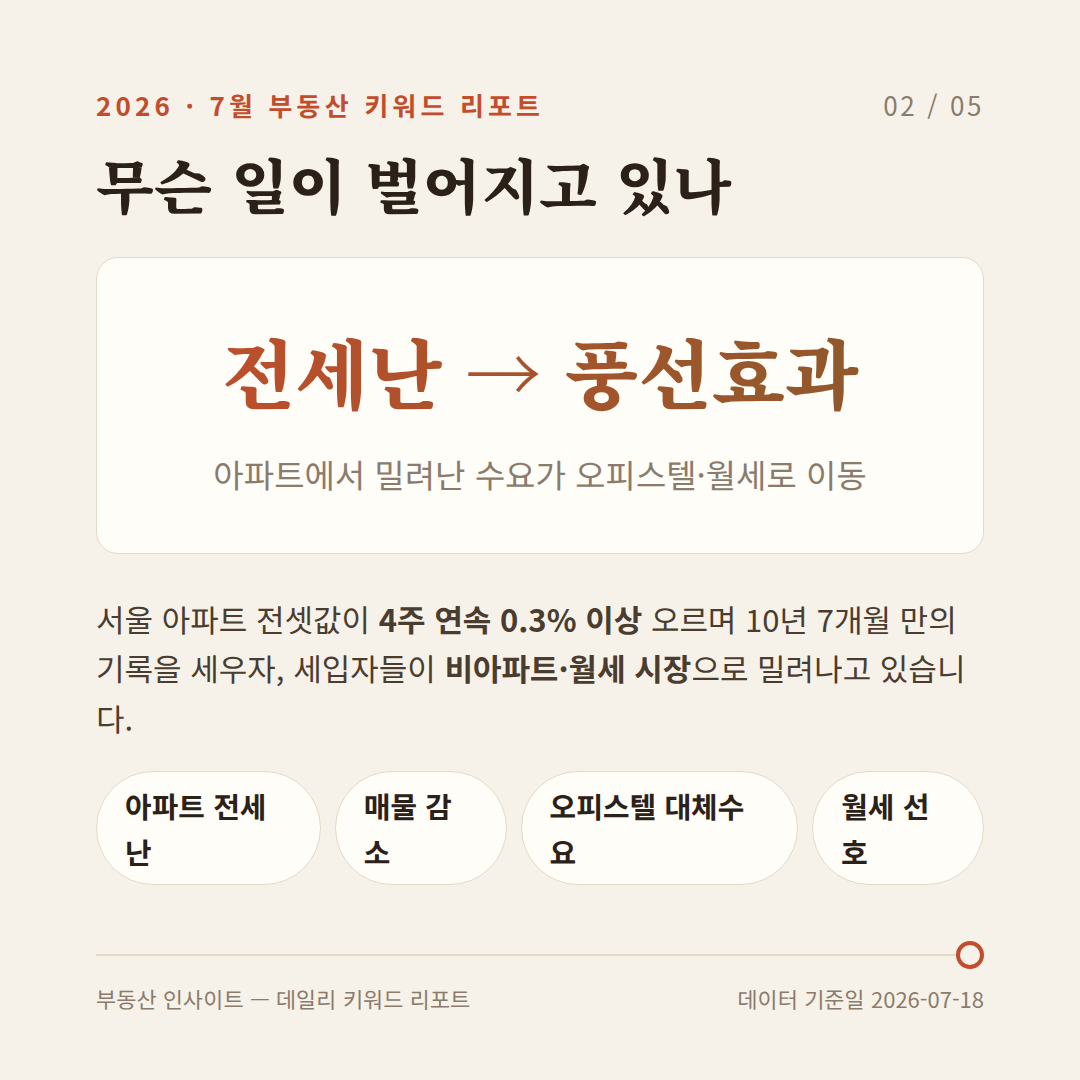
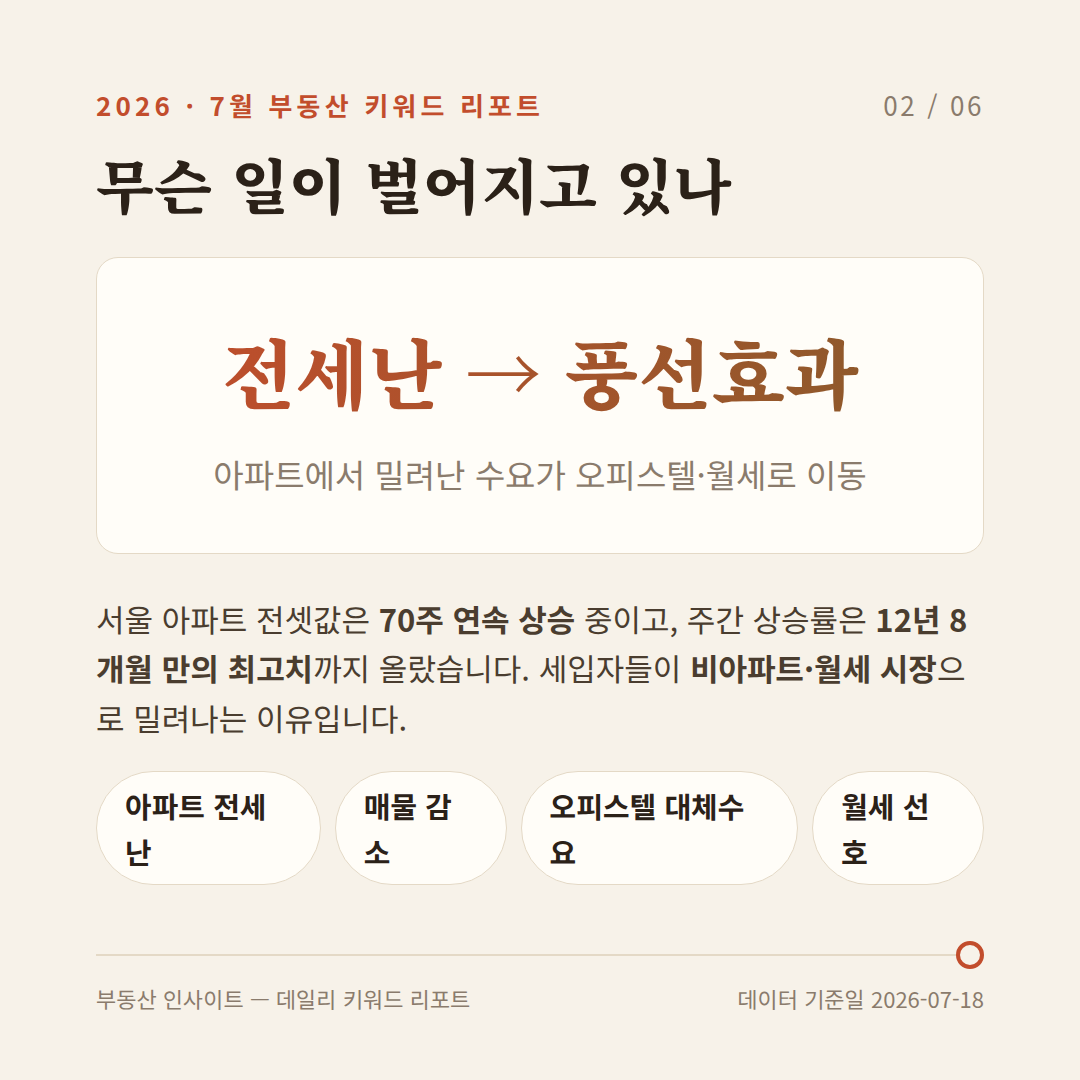
Densify data visualization in report #2 and set viz standards
- Replace headline-pair charts with denser panels: weekly jeonse
  time-series column chart (5 weeks, peak annotation, 70-week badge),
  officetel Q2 triple metrics with Q1 comparison, one-year triple
  surge bars, and the renewal case with stat
- Rebuild card news as 6-card graph-first sets in all three themes
- Add CLAUDE.md documenting the daily report workflow and the
  visualization density standards (4+ point series, multi-metric,
  sourced figures only)

Claude-Session: https://claude.ai/code/session_014FPhCKpii9mVmDWMzN6gma

Changed region(s): [[0.0917, 0.55, 0.9167, 0.7028]]

diff --git a/posts/2026-07-18-wolse100.html b/posts/2026-07-18-wolse100.html
@@ -92,6 +92,22 @@ section h2{font-family:var(--head-font);letter-spacing:var(--head-space);font-we
   padding-right:12px;font-weight:700;font-size:.9rem;color:var(--onfill);background:var(--grad)}
 .fill.gray{background:var(--fillgray);color:var(--ink)}
 .chart .cap{color:var(--mute);font-size:.88rem;margin-top:8px}
+/* dense column chart */
+.colchart{margin-top:28px;background:var(--panel);border:1px solid var(--line);border-radius:14px;padding:26px}
+.colchart h3{font-size:1rem;color:var(--mute);font-weight:500;margin-bottom:8px}
+.badge{display:inline-block;background:var(--grad);color:var(--onfill);font-weight:700;
+  font-size:.78rem;border-radius:999px;padding:2px 12px;margin-bottom:16px}
+.cols{display:flex;align-items:flex-end;gap:14px;height:190px;border-bottom:2px solid var(--line);
+  background:repeating-linear-gradient(to top,transparent 0 45.5px,var(--line) 45.5px 47.5px)}
+.col{flex:1;height:100%;display:flex;flex-direction:column;justify-content:flex-end;align-items:center;gap:6px}
+.col .v{font-size:.9rem;font-weight:900}
+.col .barv{width:100%;max-width:56px;border-radius:7px 7px 0 0;background:var(--grad)}
+.col.dim .barv{background:var(--fillgray)}
+.col .peak{font-size:.68rem;font-weight:700;color:var(--teal);text-align:center;line-height:1.3}
+.collbl{display:flex;gap:14px;margin-top:8px}
+.collbl span{flex:1;text-align:center;color:var(--mute);font-size:.78rem}
+.chart h4{font-size:.92rem;color:var(--mute);font-weight:500;margin:20px 0 12px}
+
 .statrow{display:flex;align-items:baseline;gap:14px;margin-top:16px}
 .statrow .big{font-family:var(--head-font);font-weight:900;font-size:2.6rem;line-height:1;
   background:var(--grad);-webkit-background-clip:text;background-clip:text;color:transparent}
@@ -168,7 +184,7 @@ footer a{color:var(--teal)}
     <div class="kcard"><div class="hot">데이터 이슈</div><div class="kw">오피스텔 트리플 상승</div>
       <p>매매·전세·월세 동반 상승. 전셋값 2분기 +0.40%, 4년 만에 최대 분기 상승폭.</p></div>
     <div class="kcard"><div class="hot">실수요 이슈</div><div class="kw">아파트 전세난</div>
-      <p>서울 아파트 전셋값 4주 연속 0.3%↑ — 10년 7개월 만의 기록. 매물은 급감.</p></div>
+      <p>서울 아파트 전셋값 70주 연속 상승, 주간 0.35%는 12년 8개월 만 최고. 매물은 급감.</p></div>
     <div class="kcard"><div class="hot">정책 이슈</div><div class="kw">규제와 집값</div>
       <p>"1년간 서울 집값 13.1% 상승" — 규제 중심 정책의 효과 논쟁 재점화.</p></div>
   </div>
@@ -190,11 +206,12 @@ footer a{color:var(--teal)}
   <h2>카드뉴스로 한눈에</h2>
   <p class="cards-hint">옆으로 넘기며 핵심만 — 이미지를 저장해 활용하셔도 좋습니다.</p>
   <div class="cards">
-    <img class="card-art" data-file="wolse-01-cover.png" src="../images/cards/report/wolse-01-cover.png" alt="카드뉴스 1/5 — 표지: 월세 100 시대, 전세난이 밀어올린 새 표준" loading="lazy" width="1080" height="1080">
-    <img class="card-art" data-file="wolse-02-meaning.png" src="../images/cards/report/wolse-02-meaning.png" alt="카드뉴스 2/5 — 전세난에서 풍선효과로: 아파트에서 밀려난 수요가 오피스텔·월세로 이동" loading="lazy" width="1080" height="1080">
-    <img class="card-art" data-file="wolse-03-data1.png" src="../images/cards/report/wolse-03-data1.png" alt="카드뉴스 3/5 — 월세 100만원 이상 계약 지수: 2022년 100에서 2026년 463으로, +363%" loading="lazy" width="1080" height="1080">
-    <img class="card-art" data-file="wolse-04-data2.png" src="../images/cards/report/wolse-04-data2.png" alt="카드뉴스 4/5 — 재계약 사례: 월 180만원에서 230만원으로 +28%, 오피스텔 트리플 상승" loading="lazy" width="1080" height="1080">
-    <img class="card-art" data-file="wolse-05-check.png" src="../images/cards/report/wolse-05-check.png" alt="카드뉴스 5/5 — 월세 계약 전 체크포인트 3가지: 전월세 전환율, 갱신요구권·5% 상한, 보증금 안전장치" loading="lazy" width="1080" height="1080">
+    <img class="card-art" data-file="wolse-01-cover.png" src="../images/cards/report/wolse-01-cover.png" alt="카드뉴스 1/6 — 표지: 월세 100 시대, 전세난이 밀어올린 새 표준" loading="lazy" width="1080" height="1080">
+    <img class="card-art" data-file="wolse-02-meaning.png" src="../images/cards/report/wolse-02-meaning.png" alt="카드뉴스 2/6 — 전세난에서 풍선효과로: 70주 연속 상승, 아파트에서 밀려난 수요가 오피스텔·월세로 이동" loading="lazy" width="1080" height="1080">
+    <img class="card-art" data-file="wolse-03-weekly.png" src="../images/cards/report/wolse-03-weekly.png" alt="카드뉴스 3/6 — 주간 시계열: 서울 아파트 전세가격 변동률 6/8 0.32, 6/15 0.32, 6/22 0.35(12년 8개월 만 최고), 7/6 0.31, 7/13 0.28" loading="lazy" width="1080" height="1080">
+    <img class="card-art" data-file="wolse-04-wolse.png" src="../images/cards/report/wolse-04-wolse.png" alt="카드뉴스 4/6 — 월세 100만원 이상 계약 지수 100에서 463으로 +363%, 재계약 180만원에서 230만원으로" loading="lazy" width="1080" height="1080">
+    <img class="card-art" data-file="wolse-05-triple.png" src="../images/cards/report/wolse-05-triple.png" alt="카드뉴스 5/6 — 트리플 강세: 1년간 서울 아파트 매매 +13.1% 월세 +7.4% 전세 +6.3%, 오피스텔 2분기 월세 +0.90 전세 +0.40 매매 +0.24" loading="lazy" width="1080" height="1080">
+    <img class="card-art" data-file="wolse-06-check.png" src="../images/cards/report/wolse-06-check.png" alt="카드뉴스 6/6 — 월세 계약 전 체크포인트 3가지: 전월세 전환율, 갱신요구권·5% 상한, 보증금 안전장치" loading="lazy" width="1080" height="1080">
   </div>
 </section>
 
@@ -206,20 +223,55 @@ footer a{color:var(--teal)}
   <p>"월세 100만원"이 뉴스 헤드라인을 덮고 있습니다. 한때 고급 오피스텔의 상징이던 <strong>월 100만원 이상 임대차 계약이 서울 오피스텔에서 4년 새 363% 폭증</strong>했습니다. 이 글 하나로 지금 임대차 시장에서 벌어지는 일과, 월세 계약 전 반드시 확인할 체크포인트 3가지까지 정리해 드립니다.</p>
 
   <h3>무슨 일이 벌어지고 있나 — 전세난의 풍선효과</h3>
-  <p>출발점은 아파트 전세난입니다. 서울 아파트 전셋값은 <span class="mark">4주 연속 0.3% 이상 상승</span> — 약 10년 7개월 만의 기록입니다. 올해 누적 상승률은 5.42%로 매매가격 상승률과 같은 수준까지 올라왔고, 전세 매물은 수요 대비 급감하고 있습니다.</p>
+  <p>출발점은 아파트 전세난입니다. 서울 아파트 전셋값은 <span class="mark">70주 연속 상승</span> 중이고, 6월 넷째 주 상승률 0.35%는 <strong>2013년 10월 이후 12년 8개월 만의 최고치</strong>였습니다. 올해 누적 상승률은 5.42%로 매매가격 상승률과 같은 수준까지 올라왔고, 전세 매물은 수요 대비 급감하고 있습니다.</p>
+
+  <div class="colchart">
+    <h3>서울 아파트 주간 전세가격 변동률 (%, 한국부동산원 · 눈금 0.1%p)</h3>
+    <span class="badge">70주 연속 상승</span>
+    <div class="cols">
+      <div class="col dim"><div class="v">0.32</div><div class="barv" style="height:80%"></div></div>
+      <div class="col dim"><div class="v">0.32</div><div class="barv" style="height:80%"></div></div>
+      <div class="col"><div class="peak">12년 8개월 來 최고</div><div class="v gtx">0.35</div><div class="barv" style="height:87.5%"></div></div>
+      <div class="col dim"><div class="v">0.31</div><div class="barv" style="height:77.5%"></div></div>
+      <div class="col dim"><div class="v">0.28</div><div class="barv" style="height:70%"></div></div>
+    </div>
+    <div class="collbl"><span>6/8</span><span>6/15</span><span>6/22</span><span>7/6</span><span>7/13</span></div>
+    <div class="cap">7월 들어 오름폭이 소폭 둔화됐지만(0.31→0.28), 여전히 예년의 3배 수준입니다.</div>
+  </div>
   <p>아파트에서 밀려난 임대 수요는 <strong>역세권·중대형 오피스텔</strong>로 이동했습니다. 그 결과 서울 오피스텔은 매매·전세·월세가 모두 오르는 <span class="mark">'트리플 상승'</span> 국면에 들어섰습니다. 전세사기 우려로 보증금 대신 월세를 택하는 흐름까지 겹치면서, 월세 가격이 특히 가파릅니다.</p>
 
   <div class="chart">
-    <h3>서울 오피스텔 · 임대차 지표 한눈에</h3>
-    <div class="bar"><label>월세 재계약 사례 — 기존</label>
+    <h3>서울 오피스텔 2026년 2분기 변동률 (전분기 대비, %, KB부동산)</h3>
+    <div class="bar"><label>월세</label>
+      <div class="rail"><div class="fill" style="width:100%">+0.90</div></div></div>
+    <div class="bar"><label>전세 <span style="color:var(--mute);font-weight:400">(1분기 +0.24)</span></label>
+      <div class="rail"><div class="fill gray" style="width:44.4%"></div><span class="railval" style="left:calc(44.4% + 12px)">+0.40</span></div></div>
+    <div class="bar"><label>매매 <span style="color:var(--mute);font-weight:400">(1분기 +0.23)</span></label>
+      <div class="rail"><div class="fill gray" style="width:26.7%"></div><span class="railval" style="left:calc(26.7% + 12px)">+0.24</span></div></div>
+    <div class="cap">전세는 한 분기 만에 상승폭이 두 배 가까이(+0.24→+0.40) 커졌고, 월세가 가장 가파릅니다.</div>
+
+    <h4>월세 재계약 사례 (만원/월)</h4>
+    <div class="bar"><label>기존 계약</label>
       <div class="rail"><div class="fill gray" style="width:78%">180만원</div></div></div>
-    <div class="bar"><label>월세 재계약 사례 — 갱신 후</label>
+    <div class="bar"><label>재계약</label>
       <div class="rail"><div class="fill" style="width:100%">230만원</div></div></div>
-    <div class="cap">한 번의 재계약으로 월 부담이 약 28% 증가한 사례. 오피스텔 전셋값도 2분기 +0.40%로 4년 만에 최대 분기 상승폭.</div>
+    <div class="statrow"><span class="big">+28%</span>
+      <span class="desc">한 번의 재계약으로 늘어난 월 부담 (보도 사례)</span></div>
   </div>
 
   <h3>숫자로 보는 월세 100 시대</h3>
-  <p>핵심 데이터를 다시 정리하면 이렇습니다. <strong>월세 100만원 이상 서울 오피스텔 계약은 4년 새 363% 증가</strong>했고, 재계약 한 번에 월세가 180만원에서 230만원으로 뛴 사례가 보도될 정도입니다. 서울 전체로는 <strong>1년간 집값이 13.1% 상승</strong>했다는 진단까지 나오면서, 임대차 시장의 부담이 매매 시장으로 번지는 악순환을 걱정하는 목소리도 커지고 있습니다.</p>
+  <p>핵심 데이터를 다시 정리하면 이렇습니다. <strong>월세 100만원 이상 서울 오피스텔 계약은 4년 새 363% 증가</strong>했고, 재계약 한 번에 월세가 180만원에서 230만원으로 뛴 사례가 보도될 정도입니다. 더 넓게 보면 최근 1년 서울 아파트는 <strong>매매 +13.1%, 월세 +7.4%, 전세 +6.3%</strong> — 세 가격이 동시에 오르는 이례적 '트리플 강세'입니다.</p>
+
+  <div class="chart">
+    <h3>최근 1년 서울 아파트 상승률 (%) — '트리플 강세'</h3>
+    <div class="bar"><label>매매</label>
+      <div class="rail"><div class="fill gray" style="width:100%">+13.1%</div></div></div>
+    <div class="bar"><label>월세</label>
+      <div class="rail"><div class="fill" style="width:56.5%">+7.4%</div></div></div>
+    <div class="bar"><label>전세</label>
+      <div class="rail"><div class="fill gray" style="width:48.1%">+6.3%</div></div></div>
+    <div class="cap">임대차(전·월세) 부담이 매매 가격을 밀어올리는 악순환을 걱정하는 목소리가 커지고 있습니다.</div>
+  </div>
   <p>즉 지금의 월세 급등은 일시적 이상 신호가 아니라, <span class="mark">전세 공급 부족 → 전셋값 상승 → 비아파트·월세로의 수요 이동</span>이라는 구조적 흐름의 결과입니다.</p>
 
   <h3>월세 계약 전 체크포인트 3가지</h3>
@@ -230,7 +282,7 @@ footer a{color:var(--teal)}
   </ol>
 
   <figure class="cardimg">
-    <img class="card-art" data-file="wolse-05-check.png" src="../images/cards/report/wolse-05-check.png" alt="체크포인트 카드 — 1. 전월세 전환율 계산, 2. 갱신요구권·5% 상한 확인, 3. 보증금 안전장치" loading="lazy" width="1080" height="1080">
+    <img class="card-art" data-file="wolse-06-check.png" src="../images/cards/report/wolse-06-check.png" alt="체크포인트 카드 — 1. 전월세 전환율 계산, 2. 갱신요구권·5% 상한 확인, 3. 보증금 안전장치" loading="lazy" width="1080" height="1080">
     <figcaption>월세 계약 전 체크포인트 3가지 — 저장해 두고 확인하세요.</figcaption>
   </figure>
 
@@ -243,7 +295,7 @@ footer a{color:var(--teal)}
 <div class="trace"></div>
 
 <footer>
-  참고 자료: 헤럴드경제 부동산360(2026.7) · 아주경제(2026.7) · 파이낸셜뉴스(2026.7) · 아시아투데이(2026.7) · NSP통신(2026.7) · 뉴스핌 AI 부동산 투데이(2026.7)<br>
+  참고 자료: 한국부동산원 주간아파트가격동향(2026.6~7) · KB부동산 오피스텔 통계(2026.2Q) · 헤럴드경제 부동산360(2026.7) · 아주경제(2026.7) · 서울경제(2026.7) · 이투데이(2026.6) · 뉴스핌(2026.7) · 아시아투데이(2026.7)<br>
   © 2026 부동산 인사이트 · 데이터 기준일 2026-07-18 · <a href="../index.html">← 홈으로</a>
 </footer>
 

diff --git a/CLAUDE.md b/CLAUDE.md
@@ -1,0 +1,33 @@
+# mynews — 부동산 인사이트 (데일리 키워드 리포트)
+
+GitHub Pages 사이트. main 푸시 → 워크플로우가 gh-pages로 미러링 → 자동 배포.
+URL: https://mkrealestate4s.github.io/mynews/
+
+## 구조
+- `index.html` — 홈(리포트 목록). 새 글은 목록 맨 위에 카드 추가.
+- `posts/YYYY-MM-DD-slug.html` — 리포트 본문. 기존 포스트를 복제해 스타일 유지.
+- `images/cards/{report,white,editorial}/<slug>-*.png` — 카드뉴스 (테마별 동일 파일명).
+- `themes/design-library.json` + `themes/preview.html` — 디자인 프리셋 라이브러리/카탈로그.
+- `tools/make_cards.py`, `tools/fetch_fonts.py` — 카드뉴스 생성 (스킬 `.claude/skills/theme-preset` 참조).
+- 테마 3종(report/white/editorial)은 CSS 변수 + `localStorage['mynews-theme']` 공유.
+
+## 데일리 리포트 작성 절차
+1. WebSearch로 당일 부동산 이슈 검색 → 데이터가 풍부한 키워드 1개 선정.
+2. 본문: 대시보드(kcard 4 + 차트) → 카드뉴스 갤러리 → 기사(섹션별 차트) → 체크포인트 3 → 출처.
+3. 카드뉴스 6장 × 3테마 생성(스킬 참조), 인덱스에 글 카드 추가, 커밋·푸시, 배포 success 확인.
+
+## 데이터 시각화 표준 (중요 — 사용자 요구사항)
+- **촘촘하게**: 헤드라인 숫자 2개 비교로 끝내지 않는다. 가능하면
+  **시계열(4+ 데이터 포인트)**, **다중 지표(매매/전세/월세 등)**, **전기 대비 병기**를 쓴다.
+- 모든 수치는 **보도·통계 출처가 있는 실제 값만** 사용(임의 보간·창작 금지). 출처는 푸터에 표기.
+- 차트 컴포넌트: 가로 막대(.chart/.bar/.rail/.fill), 세로 컬럼 시계열(.colchart/.cols/.col, 눈금
+  repeating-gradient), 대형 스탯(.statrow). 회색 막대는 --fillgray(트랙과 구분), 값 라벨은 짧은
+  막대 밖에 배치(.railval).
+- 단위·기간이 다른 수치를 한 축에 섞지 않는다(주간/분기/연간 분리).
+- 카드뉴스도 그래프 우선: 표지+흐름+데이터 3~4장+체크리스트, 6장 구성 기본.
+
+## 검증 체크리스트 (푸시 전)
+- playwright-core(executablePath /opt/pw-browsers/chromium)로 모바일 390px 확인:
+  가로 오버플로 없음, 이미지 1:1(aspect-ratio), 게이지 라벨 안 잘림.
+- 카드 렌더는 창 1080x1167 → 상단 1080 크롭 (헤드리스 UI 87px 보정).
+- 세 테마 모두 스크린샷 확인 후 커밋. 배포는 gh-pages 'pages build and deployment' success 확인.
